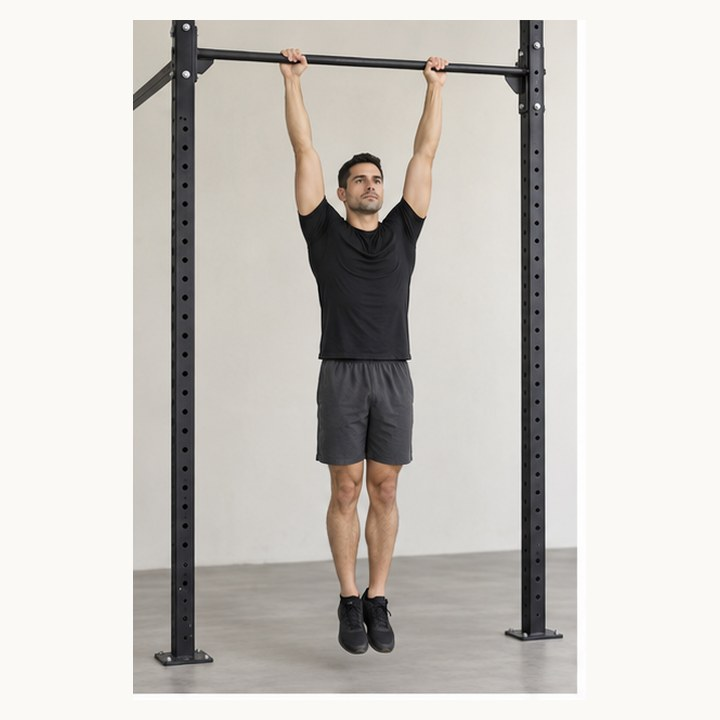
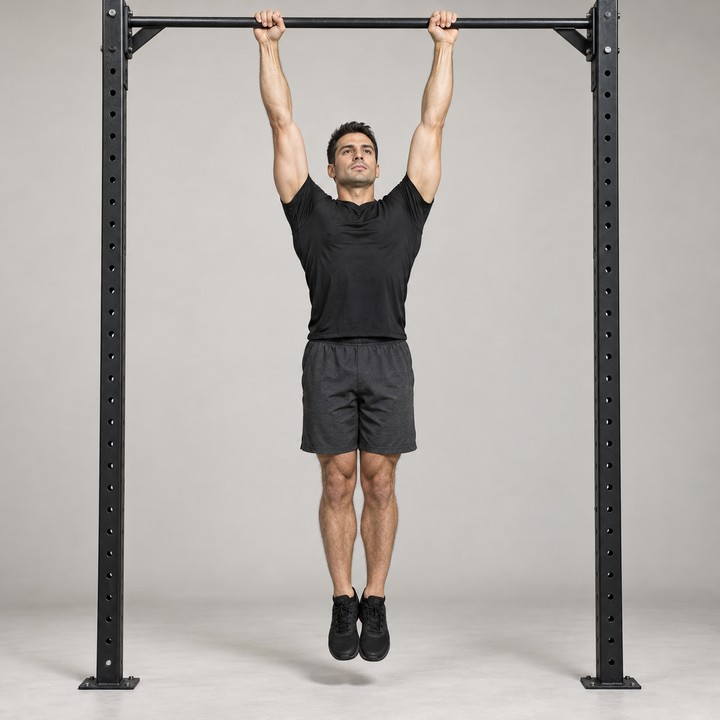
Add original male bodyweight exercise posters

diff --git a/tests/bodyweight-exercise-images.test.ts b/tests/bodyweight-exercise-images.test.ts
@@ -1,0 +1,68 @@
+import assert from "node:assert/strict";
+import { existsSync, readFileSync, statSync } from "node:fs";
+import path from "node:path";
+import test from "node:test";
+import { fileURLToPath } from "node:url";
+
+const root = path.resolve(path.dirname(fileURLToPath(import.meta.url)), "..");
+const migrationPath = path.join(
+  root,
+  "supabase/migrations/20261012041217_complete_bodyweight_exercise_images.sql",
+);
+const migration = readFileSync(migrationPath, "utf8");
+
+const expectedUpdates = new Map([
+  ["exercise-p2ohuv", "/exercises/bodyweight/bicycle-crunch.jpg"],
+  ["bodyweight-standing-calf-raise", "/exercises/bodyweight/standing-calf-raise.jpg"],
+  ["exercise-1urdov4", "/exercises/bodyweight/leg-raise.jpg"],
+  ["exercise-155pu7s", "/exercises/warmup/dynamic-warmup.jpg"],
+  ["exercise-1k0kcxw", "/exercises/bodyweight/close-grip-pushup.jpg"],
+  ["exercise-8q99c1", "/exercises/bodyweight/close-grip-pushup.jpg"],
+  ["exercise-pn4ire", "/exercises/bodyweight/crunch.jpg"],
+  ["exercise-1fo5t9c", "/exercises/bodyweight/bodyweight-curl.jpg"],
+  ["exercise-2ez0zf", "/exercises/bodyweight/lunge.jpg"],
+  ["exercise-1rpyv0f", "/exercises/bodyweight/pike-pushup.jpg"],
+  ["exercise-1wwie67", "/exercises/bodyweight/wide-pike-pushup.jpg"],
+  ["exercise-1ba2nb8", "/exercises/bodyweight/pullup.jpg"],
+  ["exercise-say88l", "/exercises/bodyweight/narrow-pullup.jpg"],
+  ["exercise-1igvlte", "/exercises/bodyweight/wide-pullup.jpg"],
+  ["exercise-1oguz0o", "/exercises/bodyweight/sumo-squat.jpg"],
+  ["exercise-n1izh5", "/exercises/bodyweight/squat.jpg"],
+  ["exercise-150pt7l", "/exercises/bodyweight/decline-pushup.jpg"],
+  ["exercise-dhk3wr", "/exercises/bodyweight/incline-pushup.jpg"],
+  ["exercise-hdg3yz", "/exercises/bodyweight/pushup.jpg"],
+]);
+
+const replacedExistingPosters = [
+  "/exercises/back/scapular-pull-up.jpg",
+  "/exercises/bodyweight/bird-dog.jpg",
+  "/exercises/bodyweight/captain-chair-straight-leg-raise.jpg",
+  "/exercises/bodyweight/chair-squat.jpg",
+  "/exercises/bodyweight/side-lying-quad-stretch.jpg",
+  "/exercises/bodyweight/side-lying-side-stretch.jpg",
+  "/exercises/bodyweight/vertical-hip-lift.jpg",
+  "/exercises/bodyweight/wall-bird-dog.jpg",
+  "/exercises/bodyweight/wall-pushup.jpg",
+  "/exercises/core/hanging-knee-raise.jpg",
+];
+
+test("legacy bodyweight thumbnails are replaced with self-hosted posters", () => {
+  const updates = new Map(
+    [...migration.matchAll(/\('([^']+)', '([^']+\.jpg)'\)/g)].map((match) => [match[1], match[2]]),
+  );
+
+  assert.deepEqual(updates, expectedUpdates);
+  assert.doesNotMatch(migration, /i\.ytimg\.com|youtube\.com/);
+  assert.match(migration, /image_url = 'https:\/\/start\.elicohenfitness\.co\.il' \|\| replacement\.image_path/);
+});
+
+test("all new and replaced bodyweight posters are committed as substantial JPEG files", () => {
+  const posterPaths = new Set([...expectedUpdates.values(), ...replacedExistingPosters]);
+  assert.equal(posterPaths.size, 28);
+
+  for (const posterPath of posterPaths) {
+    const absolutePath = path.join(root, "public", posterPath.replace(/^\/exercises\//, "exercises/"));
+    assert.equal(existsSync(absolutePath), true, `missing poster ${posterPath}`);
+    assert.ok(statSync(absolutePath).size > 25_000, `poster is unexpectedly small: ${posterPath}`);
+  }
+});
